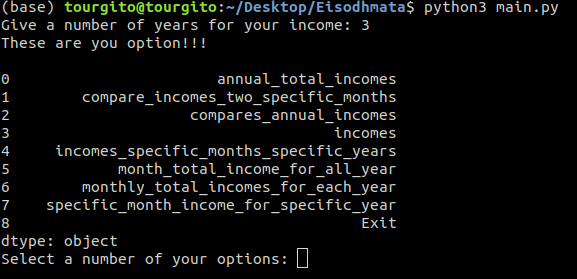
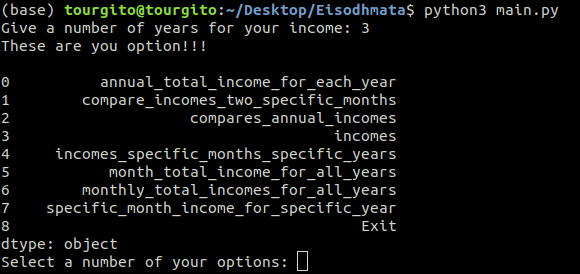
Changes

Changed region(s): [[0.0624, 0.2628, 0.6863, 0.8467], [0.0, 0.0, 0.9671, 0.2044], [0.0, 0.2628, 0.5615, 0.9927]]

diff --git a/revenue_object.py b/revenue_object.py
@@ -33,7 +33,7 @@ class revenue(object):
 
 
     #Shows annual revenue for each year
-    def annual_total_incomes(self):
+    def annual_total_income_for_each_year(self):
       
         Years_revenues = pd.DataFrame(self.incomes.sum(axis=1),columns=['Year revenue'])
         print(Years_revenues)
@@ -59,7 +59,7 @@ class revenue(object):
 
     
     #Show annual revenue for all months for all years
-    def monthly_total_incomes_for_each_year(self):
+    def monthly_total_incomes_for_all_years(self):
 
        Months_revenue = pd.DataFrame(self.incomes.sum(), columns=['Month revenue'])
        print(Months_revenue)
@@ -74,7 +74,7 @@ class revenue(object):
 
     #Show the revenue for specific months for all years
     #col:list has the months
-    def month_total_income_for_all_year(self,col:list):
+    def month_total_income_for_all_years(self,col:list):
 
         Months_revenue = pd.DataFrame(self.incomes.loc[:, [i for i in col]].sum(), columns={'Month revenue'})
         print(Months_revenue)
@@ -125,14 +125,14 @@ class revenue(object):
 
         excecutable_lista = {
                 'incomes_specific_months_specific_years' : self.incomes_specific_months_specific_years,
-                'annual_total_incomes': self.annual_total_incomes,
+                'annual_total_income_for_each_year': self.annual_total_income_for_each_year,
                 'compare_incomes_two_specific_months' : self.compare_incomes_two_specific_months ,
 
-                'month_total_income_for_all_year' : self.month_total_income_for_all_year,
+                'month_total_income_for_all_years' : self.month_total_income_for_all_years,
 
                 'specific_month_income_for_specific_year' : self.specific_month_income_for_specific_year,
                 'compares_annual_incomes' : self.compares_annual_incomes,
-                'monthly_total_incomes_for_each_year': self.monthly_total_incomes_for_each_year,
+                'monthly_total_incomes_for_all_years': self.monthly_total_incomes_for_all_years,
                 'incomes' : self.incomes
                 }
 

diff --git a/main.py b/main.py
@@ -8,7 +8,7 @@ menu = None
 years = None
 instance = None
 options = {}
-functions_with_no_arguments = ['annual_total_incomes','monthly_total_incomes_for_each_year']
+functions_with_no_arguments = ['annual_total_income_for_each_year','monthly_total_incomes_for_all_years']
 
 
 
@@ -108,7 +108,7 @@ def select_option(instance_methods:list,none:None):
                 input('press enter to continue')
                 print()
 
-            elif options[option] == 'month_total_income_for_all_year':
+            elif options[option] == 'month_total_income_for_all_years':
                 select_raws_columns(option,instance_methods,0)
 
             elif options[option] == 'incomes_specific_months_specific_years':
